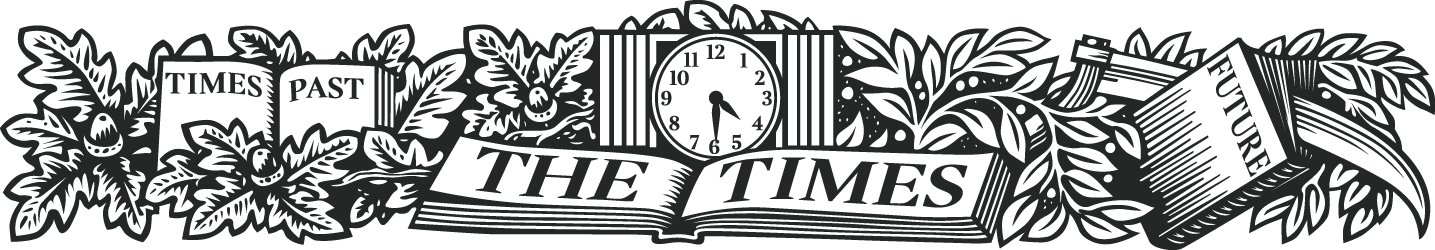
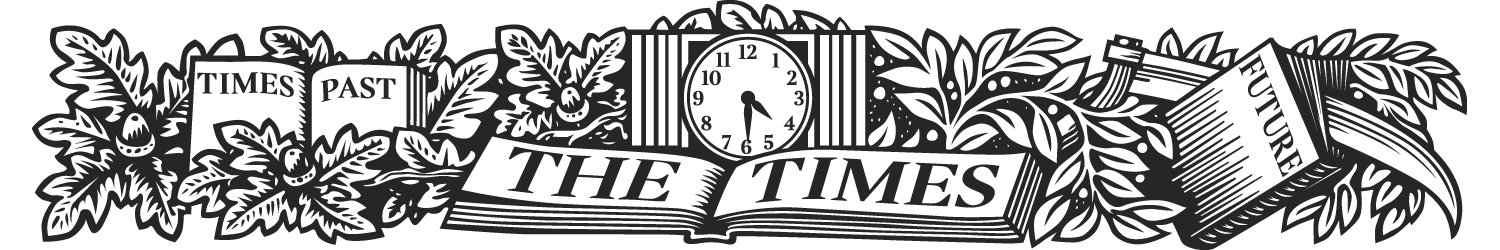
chore; moving header to edition slices

diff --git a/packages/edition-slices/src/slices/leaders/styles.js b/packages/edition-slices/src/slices/leaders/styles.js
@@ -1,20 +1,20 @@
-import { fonts, spacing } from "@times-components/styleguide";
+import { colours, fonts, spacing } from "@times-components/styleguide";
 
 const styles = {
-  imageStyle: {
-    height: 51,
-    margin: "auto",
-    width: 283
-  },
   leadText: {
-    color: "#850029",
+    color: colours.functional.leadersHeadline,
     fontFamily: fonts.bodyRegular,
     fontSize: 16,
-    lineHeight: spacing(3)
+    lineHeight: 15
   },
   leadTextContainer: {
     paddingBottom: spacing(1),
     paddingTop: spacing(2)
+  },
+  mastheadStyle: {
+    height: 51,
+    margin: "auto",
+    width: 283
   },
   text: {
     textAlign: "center"

diff --git a/packages/slice-layout/src/templates/leaders/index.js b/packages/slice-layout/src/templates/leaders/index.js
@@ -1,9 +1,8 @@
 import React from "react";
 import { View } from "react-native";
 import styles from "./styles";
+import { ItemRowSeparator } from "../shared";
 import propTypes from "./proptypes";
-
-const keySeperator = () => <View style={styles.keySeperator} />;
 
 const Leaders = ({
   renderLeader1,
@@ -14,9 +13,9 @@ const Leaders = ({
   <View style={styles.container}>
     {renderHead()}
     {renderLeader1()}
-    {keySeperator()}
+    <ItemRowSeparator />
     {renderLeader2()}
-    {keySeperator()}
+    <ItemRowSeparator />
     {renderLeader3()}
   </View>
 );

diff --git a/packages/edition-slices/src/slices/leaders/index.js b/packages/edition-slices/src/slices/leaders/index.js
@@ -11,7 +11,7 @@ const renderHeader = () => (
       resizeMode="contain"
       // eslint-disable-next-line global-require
       source={require("../../../assets/leaders-masthead.png")}
-      style={styles.imageStyle}
+      style={styles.mastheadStyle}
     />
     <View style={styles.leadTextContainer}>
       <Text style={[styles.leadText, styles.text]}> Leading Articles </Text>

diff --git a/packages/slice-layout/src/templates/leaders/styles.js b/packages/slice-layout/src/templates/leaders/styles.js
@@ -5,12 +5,6 @@ const styles = {
     paddingBottom: spacing(1),
     paddingHorizontal: spacing(8),
     paddingTop: spacing(4)
-  },
-  keySeperator: {
-    borderBottomWidth: 1,
-    borderColor: "#dcdcdc",
-    borderStyle: "solid",
-    marginHorizontal: spacing(2)
   }
 };
 

diff --git a/packages/edition-slices/src/tiles/tile-m/styles/index.js b/packages/edition-slices/src/tiles/tile-m/styles/index.js
@@ -3,7 +3,7 @@ import { fonts, spacing } from "@times-components/styleguide";
 const styles = {
   container: {
     paddingBottom: spacing(2),
-    paddingHorizontal: 40
+    paddingHorizontal: spacing(8)
   },
   headlineStyle: {
     fontFamily: fonts.headline,

diff --git a/packages/styleguide/src/colours/functional.js b/packages/styleguide/src/colours/functional.js
@@ -11,6 +11,7 @@ const functionalColours = {
   bullet: "#103546",
   contrast: "#FFFFFF",
   keyline: "#DBDBDB",
+  leadersHeadline: "#850029",
   overlayGradientEnd: "rgba(0, 0, 0, 0)",
   overlayGradientStart: "rgba(1, 1, 1, 0.9)",
   primary: "#333333",
